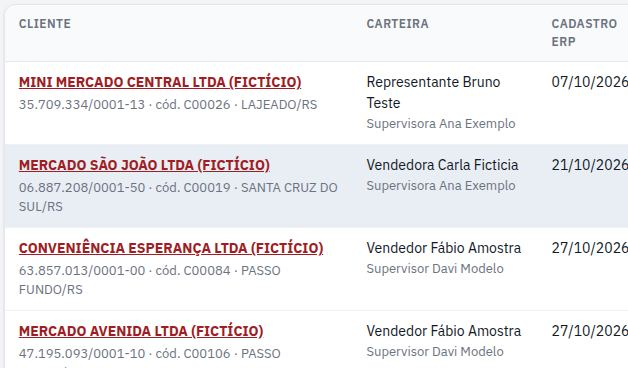
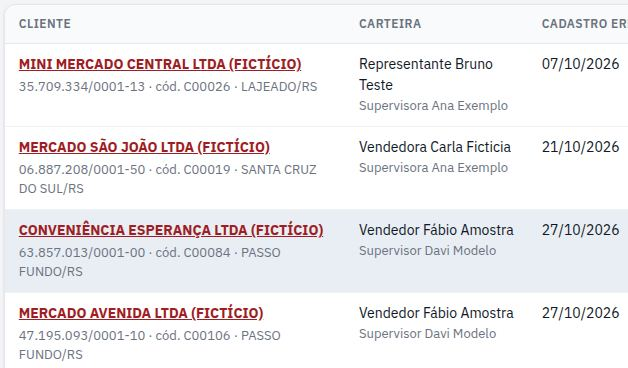
Histórico: apagar uma importação da base; Usuários mostra o login exato
Migração 0029 (ADR-0008): o administrador apaga, pelo Histórico, os clientes
que entraram por uma importação da base, com o histórico que a planilha
gerou. Recusa se algum já foi trabalhado (atendimento, ERP, crédito, pedido,
transferência, rota ou expurgo). Quem já existia fica; quem a importação
criou e ficou sem cliente é desativado. Chave de administração versão 4
(data_delete em prospects e contatos), renovada na publicação.

Tela Usuários: a coluna Login mostra exatamente o login gravado; o código
do ERP vai numa coluna própria. Rótulos e botões sem quebra de linha.

diff --git a/web/js/telas/admin-importacoes.js b/web/js/telas/admin-importacoes.js
@@ -1,5 +1,5 @@
 import { bancoAdmin } from '../db.js';
-import { linhasDaImportacao, listarImportacoes, NOMES_IMPORTACAO } from '../../shared/administracao.mjs';
+import { apagarImportacaoBase, conferirExclusaoBase, linhasDaImportacao, listarImportacoes, NOMES_IMPORTACAO } from '../../shared/administracao.mjs';
 import { apagarArquivoPedidos, conferirExclusao, listarArquivosPedidos } from '../../shared/importar-pedidos.mjs';
 import { h, montar, tabela, selo, formatar, baixarCsv, comEspera, aviso, mensagem } from '../ui.js';
 import { cartoes, moeda, tabelaPedidos } from './_pedidos.js';
@@ -10,6 +10,8 @@ export async function render(conteudo, ctx) {
   if (id) return detalhe(conteudo, db, Number(id));
   const apagar = ctx.parametros.get('apagar');
   if (apagar) return confirmarExclusao(conteudo, db, Number(apagar), ctx);
+  const apagarBase = ctx.parametros.get('apagarBase');
+  if (apagarBase) return confirmarExclusaoBase(conteudo, db, Number(apagarBase), ctx);
   const lista = await listarImportacoes(db);
   const arquivos = await listarArquivosPedidos(db);
   const blocoArquivos = arquivos.length ? h('div', { class: 'cartao', id: 'arquivos-pedidos' }, h('h2', {}, 'Arquivos de pedidos'),
@@ -25,12 +27,14 @@ export async function render(conteudo, ctx) {
       { titulo: 'Tipo', valor: (i) => NOMES_IMPORTACAO[i.tipo] ?? i.tipo },
       { titulo: 'Arquivo', campo: 'arquivo_nome' },
       { titulo: 'Quando / quem', valor: (i) => `${formatar.dataHora(i.iniciado_em)} · ${i.executado_por}` },
-      { titulo: 'Situação', valor: (i) => selo(i.situacao, i.situacao) },
+      { titulo: 'Situação', valor: (i) => (i.base_apagada_em ? selo(`Apagada em ${formatar.dataHora(i.base_apagada_em)} por ${i.base_apagada_por}`, 'erro') : selo(i.situacao, i.situacao)) },
       { titulo: 'Lidas', valor: (i) => formatar.numero(i.linhas_lidas), classe: 'num' },
       { titulo: 'Aceitas', valor: (i) => formatar.numero(i.linhas_aceitas), classe: 'num' },
       { titulo: 'Rejeitadas', valor: (i) => formatar.numero(i.linhas_rejeitadas), classe: 'num' },
       { titulo: 'Ignoradas', valor: (i) => formatar.numero(i.linhas_ignoradas), classe: 'num' },
-      { titulo: '', valor: (i) => h('a', { href: `#/importacoes?aba=historico&id=${i.id}` }, 'Ver linhas') },
+      { titulo: '', valor: (i) => h('div', { class: 'acoes', style: 'margin:0' }, h('a', { href: `#/importacoes?aba=historico&id=${i.id}` }, 'Ver linhas'),
+        i.tipo === 'base_prospects' && i.situacao === 'concluida' && !i.base_apagada_em
+          ? h('a', { class: 'botao secundario pequeno', dados: { apagarBase: i.id }, href: `#/importacoes?aba=historico&apagarBase=${i.id}` }, 'Apagar') : null) },
     ], lista, { vazio: 'Nenhuma importação ainda.' }));
 }
 
@@ -87,5 +91,41 @@ async function confirmarExclusao(conteudo, db, id, ctx) {
         { o: 'Cadastro, crédito e baixados', r: 'Mantidos', t: 'ok', d: 'Vieram de outros arquivos' },
         { o: 'Registro da exclusão', r: 'Permanece', t: '', d: 'Arquivo, quantidades, quem importou, quem apagou e quando' }])),
     h('div', { class: 'ped-confirma' }, h('label', { for: 'confirma-arquivo' }, 'Não dá para desfazer. Para confirmar, digite o nome do arquivo:'),
+      h('div', { class: 'linha-campos' }, confirma, bApagar)));
+}
+
+/** Conferência antes de apagar uma importação da base de prospects. A regra está no banco (0029, ADR-0008). */
+async function confirmarExclusaoBase(conteudo, db, id, ctx) {
+  const imp = (await listarImportacoes(db, { limite: 1000 })).find((i) => Number(i.id) === id);
+  const voltar = h('p', {}, h('a', { href: '#/importacoes?aba=historico' }, '← Histórico'));
+  if (!imp || imp.tipo !== 'base_prospects' || imp.situacao !== 'concluida' || imp.base_apagada_em) {
+    return montar(conteudo, voltar, mensagem('Esta importação não pode ser apagada: só uma importação da base de prospects concluída e ainda não apagada.', 'erro'));
+  }
+  const c = await conferirExclusaoBase(db, id);
+  const n = (x) => formatar.numero(x);
+  const confirma = h('input', { id: 'confirma-arquivo', placeholder: imp.arquivo_nome, 'aria-label': 'Nome do arquivo para confirmar', oninput: () => { bApagar.disabled = c.trabalhados > 0 || confirma.value.trim() !== imp.arquivo_nome; } });
+  const bApagar = h('button', { id: 'apagar-base', disabled: true, onclick: async () => {
+    const r = await comEspera(bApagar, () => apagarImportacaoBase(db, { importacaoId: id, usuarioId: ctx.usuario.id }));
+    if (!r) return;
+    aviso(`Importação apagada: ${n(r.qtd_prospects)} clientes saíram da base${Number(r.qtd_usuarios) ? `, ${n(r.qtd_usuarios)} usuário(s) desativado(s)` : ''}.`);
+    location.hash = '#/importacoes?aba=historico';
+  } }, 'Apagar esta importação');
+  montar(conteudo, voltar, h('h1', {}, 'Apagar uma importação da base'),
+    h('p', { class: 'ajuda' }, `${imp.arquivo_nome} · importada em ${formatar.dataHora(imp.iniciado_em)} por ${imp.executado_por} · ${n(imp.linhas_aceitas)} linhas aceitas. Saem só os clientes que entraram por esta importação.`),
+    cartoes([['Clientes que saem', n(c.prospects), 'desta importação', 'destaque'], ['Registros da planilha', n(c.contatos), 'DT 1º e 2º contato'],
+      ['Já existiam', n(c.atualizados), 'ficam na base'], ['Já trabalhados', n(c.trabalhados), c.trabalhados ? 'impedem apagar' : 'nenhum', c.trabalhados ? 'alerta' : '']]),
+    c.trabalhados ? h('div', { class: 'cartao', id: 'base-trabalhados' }, mensagem(`${n(c.trabalhados)} cliente(s) desta importação já foram trabalhados (atendimento, cadastro, crédito, pedido, transferência, rota ou expurgo). Por isso a importação não pode ser apagada.`, 'erro'),
+      tabelaPedidos([{ titulo: 'CNPJ', valor: (l) => formatar.cnpj(l.cnpj), classe: 'cen' }, { titulo: 'Razão social', campo: 'razao_social' }, { titulo: 'Status', campo: 'status_nome', classe: 'cen' }], c.exemplosTrabalhados)) : null,
+    c.usuarios.length && !c.trabalhados ? h('div', { class: 'cartao' }, h('h2', {}, 'Usuários que serão desativados'), h('p', { class: 'ajuda' }, 'Criados por esta importação, sem acesso liberado e sem nenhum cliente restante. Não são apagados.'),
+      tabelaPedidos([{ titulo: 'Nome', campo: 'nome' }, { titulo: 'Perfil', valor: (u) => (u.perfil === 'supervisor' ? 'Supervisor' : 'Representante / vendedor'), classe: 'cen' }, { titulo: 'Código', campo: 'codigo_erp', classe: 'cen' }], c.usuarios)) : null,
+    h('div', { class: 'cartao' }, h('h2', {}, 'O que acontece com cada coisa'),
+      tabelaPedidos([{ titulo: 'O quê', campo: 'o' }, { titulo: 'Resultado', valor: (l) => selo(l.r, l.t), classe: 'cen' }, { titulo: 'Detalhe', campo: 'd' }], [
+        { o: 'Clientes que entraram por esta importação', r: 'Apagados', t: 'erro', d: 'Somem da lista, do Explorar, do Início e das exportações' },
+        { o: 'Histórico desses clientes', r: 'Apagado', t: 'erro', d: 'Entrada na base e as tentativas que vieram da planilha' },
+        { o: 'Clientes que já existiam', r: 'Mantidos', t: 'ok', d: 'Status, contatos e representante não mudaram; o cadastro fica como a importação deixou' },
+        { o: 'Linhas do arquivo', r: 'Mantidas', t: 'ok', d: 'Continuam em Ver linhas, como registro do que o arquivo trouxe' },
+        { o: 'Painéis e indicadores', r: 'Recalculados', t: 'alerta', d: 'Início, Explorar e resumo da carteira voltam a bater na mesma hora' },
+        { o: 'Registro da exclusão', r: 'Permanece', t: '', d: 'Arquivo, quantidades, quem importou, quem apagou e quando' }])),
+    c.trabalhados ? null : h('div', { class: 'ped-confirma' }, h('label', { for: 'confirma-arquivo' }, 'Não dá para desfazer. Para confirmar, digite o nome do arquivo:'),
       h('div', { class: 'linha-campos' }, confirma, bApagar)));
 }

diff --git a/web/css/app.css b/web/css/app.css
@@ -126,6 +126,8 @@ tbody tr:hover { background: #E9EEF5; }
 tbody tr:last-child td { border-bottom: 0; }
 th { background: #F9FAFB; font-weight: 600; font-size: 12px; text-transform: uppercase; letter-spacing: .04em; color: var(--suave); position: sticky; top: 0; border-bottom: 1px solid var(--borda); }
 td.num, th.num { text-align: right; font-variant-numeric: tabular-nums; }
+td.cen, th.cen { text-align: center; }
+.tabela-wrap th, .acoes > button, .acoes > .botao { white-space: nowrap; }
 .numeros { display: grid; gap: 14px; grid-template-columns: repeat(auto-fill, minmax(170px, 1fr)); margin: 14px 0 18px; }
 .numero { background: #fff; border: 1px solid var(--borda); border-radius: var(--raio); padding: 14px 16px; box-shadow: var(--sombra); border-top: 3px solid var(--borda-forte); }
 .numero b { display: block; font-size: 1.7rem; line-height: 1.15; font-family: "IBM Plex Sans Condensed", sans-serif; font-variant-numeric: tabular-nums; }

diff --git a/web/js/telas/admin-usuarios.js b/web/js/telas/admin-usuarios.js
@@ -63,7 +63,9 @@ export async function render(conteudo, ctx) {
       && (!termo || normalizarBusca(`${u.nome} ${u.login} ${u.codigo_erp ?? ''}`).includes(termo)));
     montar(listaArea, tabela([
       { titulo: 'Nome', valor: (u) => h('b', {}, u.nome) },
-      { titulo: 'Login', valor: (u) => `${u.login}${u.codigo_erp && String(u.codigo_erp) !== u.login ? ' · cód. ' + u.codigo_erp : ''}` },
+      // o login aparece exatamente como foi gravado (é o que a pessoa digita); o código do ERP fica na coluna ao lado
+      { titulo: 'Login', valor: (u) => u.login },
+      { titulo: 'Cód. ERP', valor: (u) => u.codigo_erp ?? '—', classe: 'cen' },
       { titulo: 'Perfil', valor: (u) => {
         // mesmo tipo-base: muda só as telas; administrador/gerente/financeiro trocam entre si (shared/perfis.mjs);
         // vendedor: Representante ou Vendedor é escolhido aqui mesmo (tipo de atuação)

diff --git a/docs/adr/0008-apagar-importacao-da-base.md b/docs/adr/0008-apagar-importacao-da-base.md
@@ -1,0 +1,24 @@
+# ADR-0008 — Apagar uma importação da base de prospects
+
+**Situação:** aceita em 2026-11-06.
+
+## Contexto
+Uma base de prospects foi importada por engano (clientes de SC, antes de a base de SC estar pronta). Prospects, contatos e
+movimentações são só de inclusão (ADR-0003), e só o arquivo de pedidos podia ser apagado (ADR-0007). O dono pediu para apagar.
+
+## Decisão
+Inserir em `base_exclusoes` apaga, num trigger e numa transação só, os prospects que entraram por aquela importação
+(`prospects.importacao_id`), com os `contatos` e as `movimentacoes` deles.
+
+- Só o administrador, só importação da base concluída, uma vez por importação.
+- Recusa se algum desses clientes já foi trabalhado (`vw_base_trabalhados`): contato fora da planilha, evento do ERP, crédito,
+  transferência, rota, expurgo ou pedido. Nada que alguém registrou é apagado.
+- Quem já existia e só teve o cadastro atualizado não sai; o cadastro anterior não volta (não há foto do antes).
+- Representante e supervisor criados pela importação, sem acesso liberado e sem cliente restante, são desativados (não apagados).
+- `importacao_linhas` e `importacoes` ficam como registro; `base_exclusoes` guarda quem apagou, quando e as quantidades.
+- O `DELETE` em prospects, contatos e movimentações só passa enquanto existe `base_exclusoes.concluida = 0`, o que só ocorre
+  dentro do trigger. `resumo_carteira` ganhou o trigger de exclusão.
+
+## Consequências
+- A chave de administração precisa de `data_delete` em prospects e contatos (versão 4, renovada na publicação).
+- Uma importação com qualquer cliente trabalhado não pode mais ser apagada: aí a saída é expurgo ou baixa, como antes.

diff --git a/docs/03-regras-negocio.md b/docs/03-regras-negocio.md
@@ -665,6 +665,11 @@ passo a passo (arquivo → colunas → simulação → gravação):
 
 - Cada aba já sabe o tipo do arquivo: não há como importar baixados como cadastro.
 - As abas de importação são **só no computador** (escolha de arquivo); no celular aparece o aviso. Exportar e Histórico abrem em qualquer tela.
+- **Apagar uma importação da base** (Histórico, só administrador, migração 0029, ADR-0008): saem os clientes que **entraram** por
+  ela e o histórico que a planilha gerou (entrada na base, DT 1º/2º contato). Recusa se algum já foi trabalhado — atendimento no app,
+  cadastro/evento do ERP, crédito, pedido, transferência, rota ou expurgo. Quem já existia e só teve o cadastro atualizado fica (o
+  cadastro não volta). Representante e supervisor criados por ela, sem acesso liberado e sem cliente restante, são desativados.
+  As linhas da importação ficam (Ver linhas). A tela confere antes e pede o nome do arquivo para confirmar.
 - **Exportar** é também do **gerente** (tela `exportar`, 0026); para ele o menu mostra "Exportar dados" e a tela só essa aba.
 - **Listas por equipe** (`shared/listas-equipe.mjs`): um PDF da Lista por representante, com o mesmo layout do Gerar PDF da Lista
   (web/js/relatorio.js), num ZIP com uma pasta por supervisor (`<Supervisor>/<cód> - <Representante>.pdf`). Filtros: onda (começa na 1

diff --git a/docs/02-modelo-dados.md b/docs/02-modelo-dados.md
@@ -115,6 +115,7 @@ cálculo de distância ([ADR-0005](adr/0005-sem-calculo-de-distancia.md)).
 | `pedidos_erp` | uma linha por pedido por arquivo em que mudou, com `importacao_id` e `prospect_id` (NULL = filial de um grupo da base). Só inclusão, exceto pela exclusão do arquivo |
 | `pedido_aplicacoes` | efeito de um arquivo em cada cliente: status antes e depois, motivo e a foto dos campos para poder voltar. O trigger desta tabela é o único que muda o status por pedido |
 | `pedido_exclusoes` | exclusão de um arquivo: quem, quando, quantidades. Somente inclusão; o trigger faz toda a exclusão numa transação (ADR-0007) |
+| `base_exclusoes` (0029) | exclusão de uma importação da base: quem, quando, clientes e contatos apagados, já existentes (ficam) e usuários desativados. Somente inclusão; o trigger faz tudo numa transação e recusa se algum cliente já foi trabalhado (`vw_base_trabalhados`, ADR-0008) |
 
 Views: `vw_pedidos` (situação atual de cada pedido, classificada, com representante, dono da carteira e `relacao`: propria · outra · fora_base · cpf) e `vw_valor_pedidos` (valor do painel).
 

diff --git a/CLAUDE.md b/CLAUDE.md
@@ -17,7 +17,8 @@ Sistema **GERMANI** (guarda-chuva GERMANI), estado **ativo**. Português do Bras
 ## Não fazer
 - Commitar planilhas, relatórios, `.env` ou tokens (repositório público).
 - UPDATE/DELETE em contatos, eventos_erp, movimentacoes, transferencias, importacao_linhas, auditoria.
-  Única exceção: apagar um arquivo de pedidos (`pedido_exclusoes`, migração 0022, ADR-0007), só pelo trigger.
+  Exceções, só pelo trigger: apagar um arquivo de pedidos (`pedido_exclusoes`, migração 0022, ADR-0007) e apagar uma
+  importação da base ainda não trabalhada (`base_exclusoes`, migração 0029, ADR-0008).
 - Alterar `prospects.status_atual` fora dos triggers.
 - Inventar layout de arquivo do ERP: colunas vêm por parâmetro até a amostra real chegar.
 - Calcular distância por geolocalização (ADR-0005). Dar rota ao representante.
